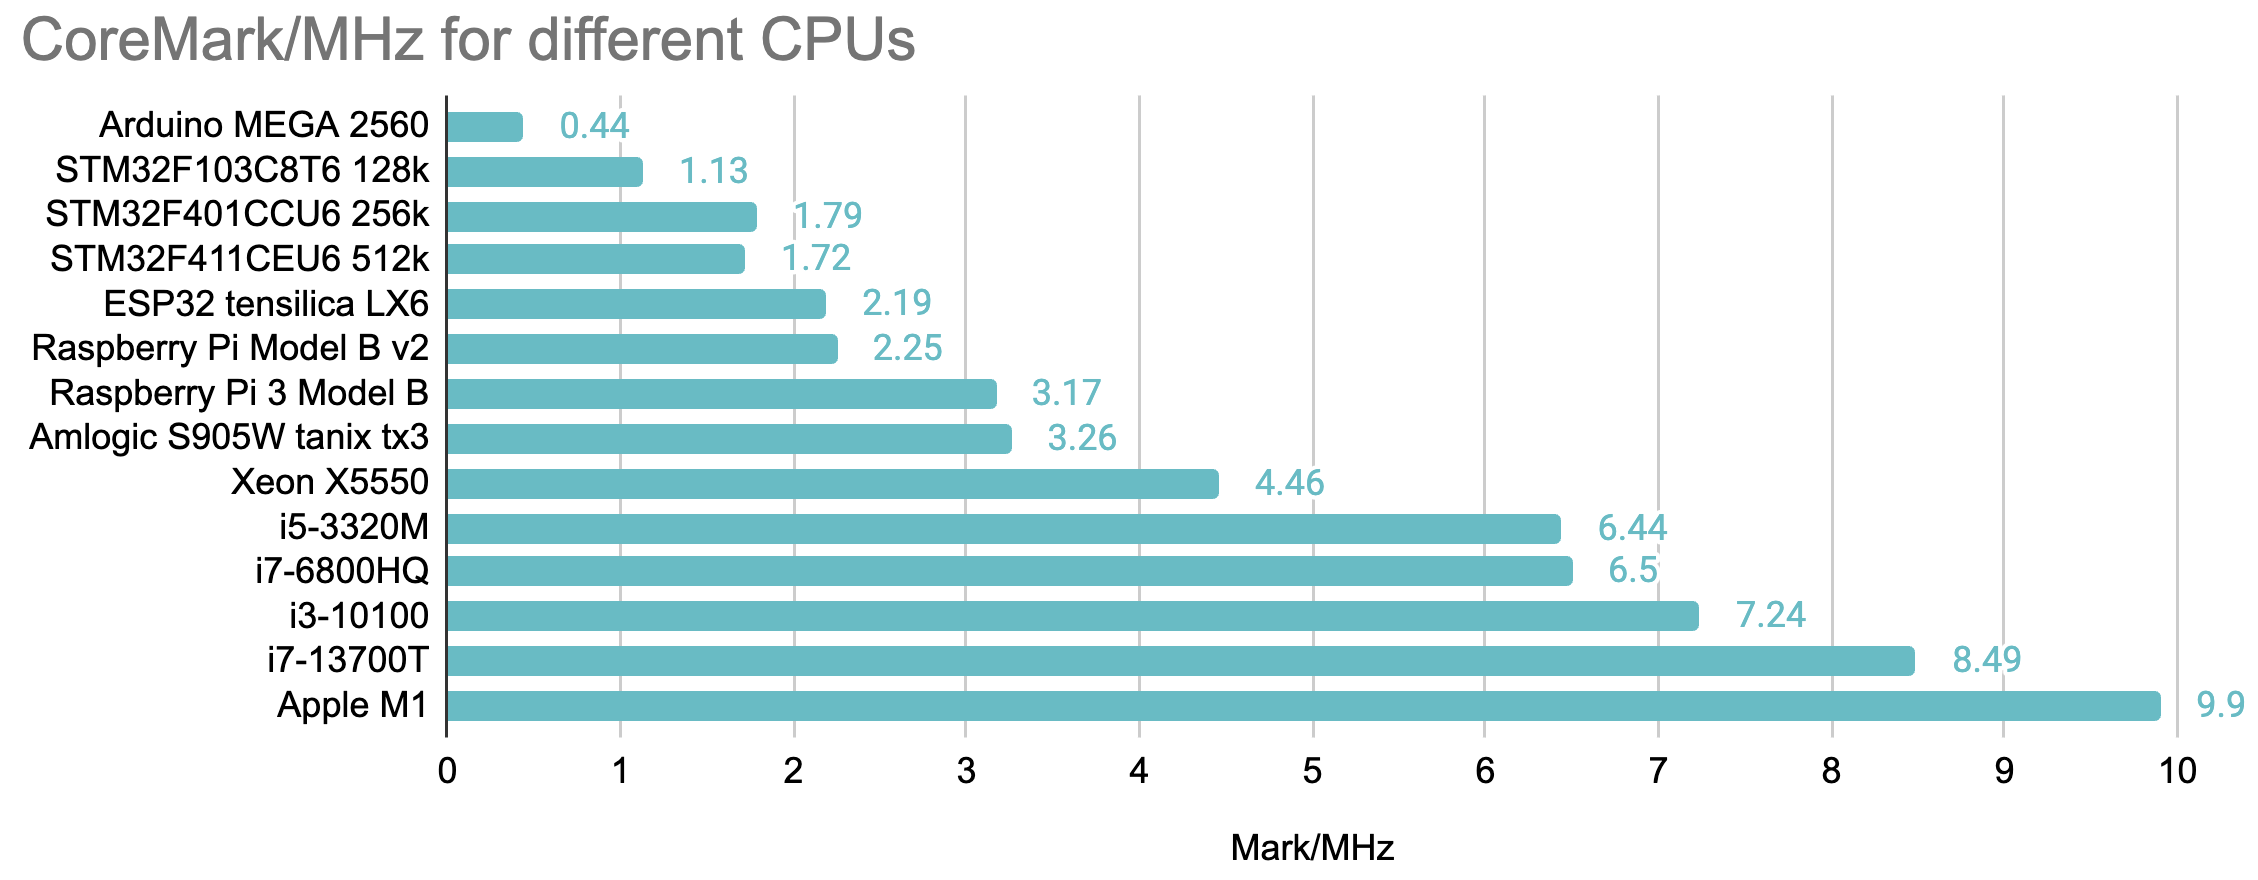
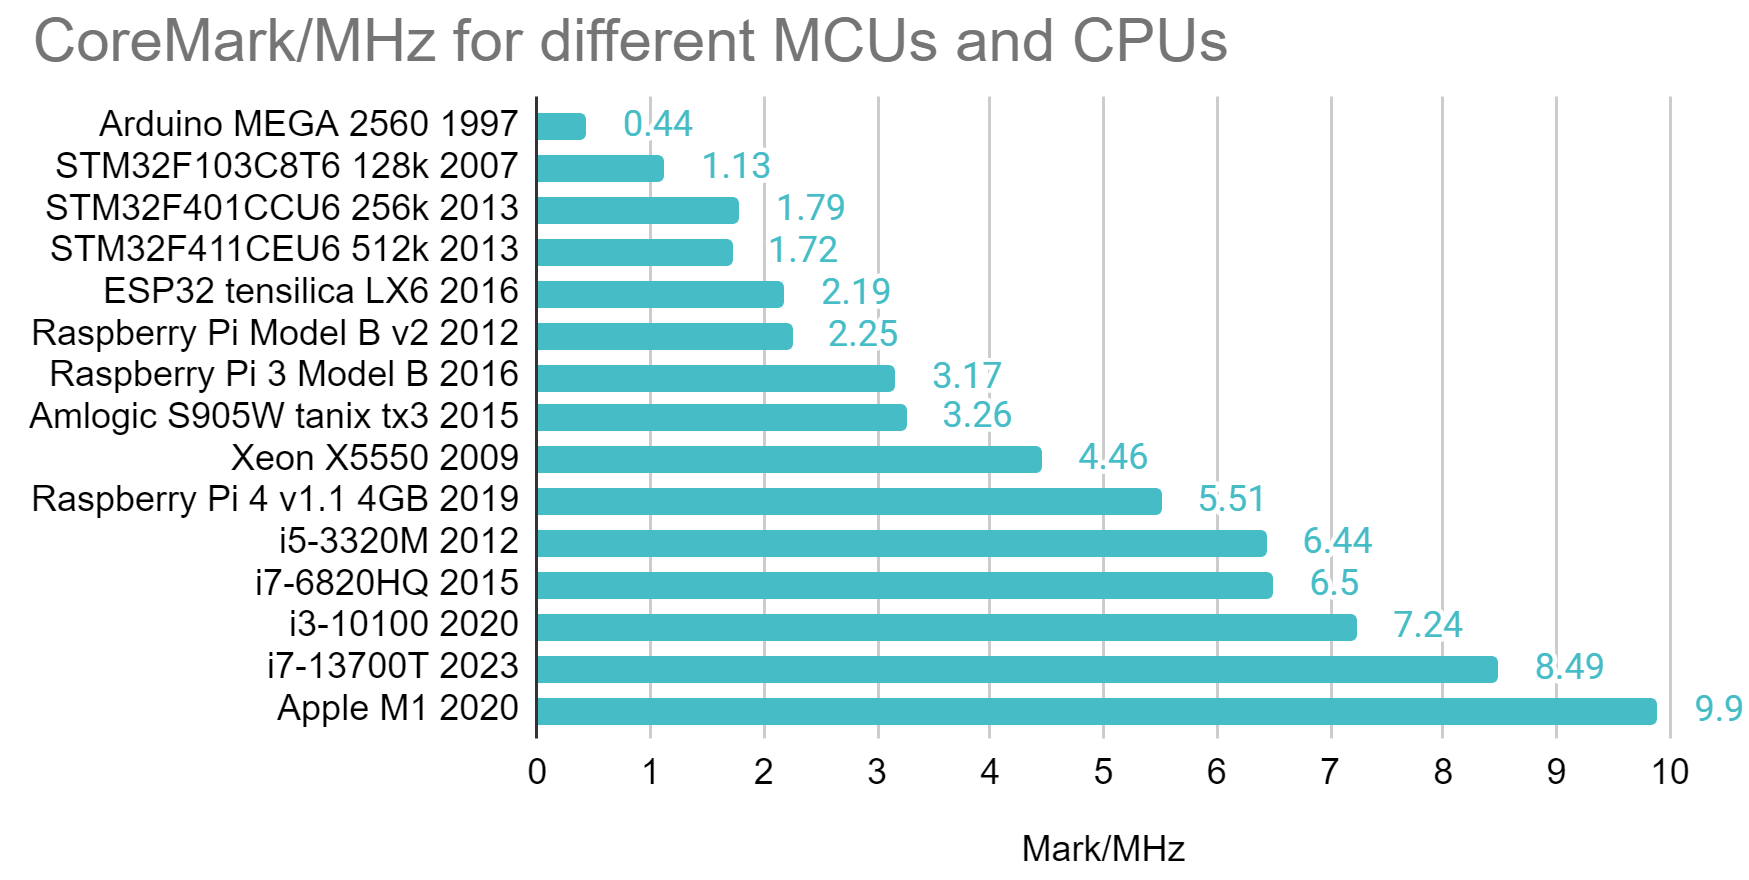
updated results from 2024 for CoreMark

diff --git a/README.md b/README.md
@@ -24,9 +24,9 @@ The data gives some inside to the architechture of the CPU and the speed of the 
 
 ## [CoreMark](CoreMark) - 2009 for embedded systems
 
-Intended for embedded systems by [EEMBC](https://github.com/eembc/coremark) in 2009 for embedded system it is too large for an Arduino Uno, but runs from an Arduino Mega 2560 onwards to multithreaded Octacore Xeon processor. The results show that it scales with frequency and improved IPC.
+Intended for embedded systems by [EEMBC](https://github.com/eembc/coremark) in 2009 for embedded system it is too large for an Arduino Uno, but runs from an Arduino Mega 2560 onwards to multithreaded Octacore Xeon processor. The results show that it scales mostly with frequency and a little with improved IPC.
 
-![Results 2020](mix/coremark2020.png)
+![Results 2020](mix/coremark2024.png)
 
 The results vary from some 7 points for the Arduino Mega 2560 (the Leonardo and Uno have not enough RAM) to 39082 for an i7-13700T or 390614 in a 24-thread execution. That's 5580x or 55802x faster, almost 5 magnitudes! That's hard to display with linear bar graphs. The range of frequencies is vast as well from 16 MHz in the Arduino to 4600 MHz in a Quadcore i7, another 280x. Putting these two values (CoreMark and Frequency) into relationship narrows the differences:
 

diff --git a/CoreMark/README.md b/CoreMark/README.md
@@ -16,7 +16,9 @@ make XCFLAGS="-g -DMULTITHREAD=24 -DUSE_FORK=1"
 cat run1.log
 ```
 
-![Results 2020](../mix/coremark2020.png)
+One can easily see how the score scales with the frequency over this wide range.
+
+![Results 2024](../mix/coremark2024.png)
 
 In 2019 [Paul Stoffregen](https://github.com/PaulStoffregen) from [PJRC](https://www.pjrc.com/) with the [Teensy project](https://www.pjrc.com/teensy/) ported it [to Arduino](https://github.com/PaulStoffregen/CoreMark). It runs out of the box on an ESP32. Multicore optimisation is not enabled yet. In ubuntu it works with
 
